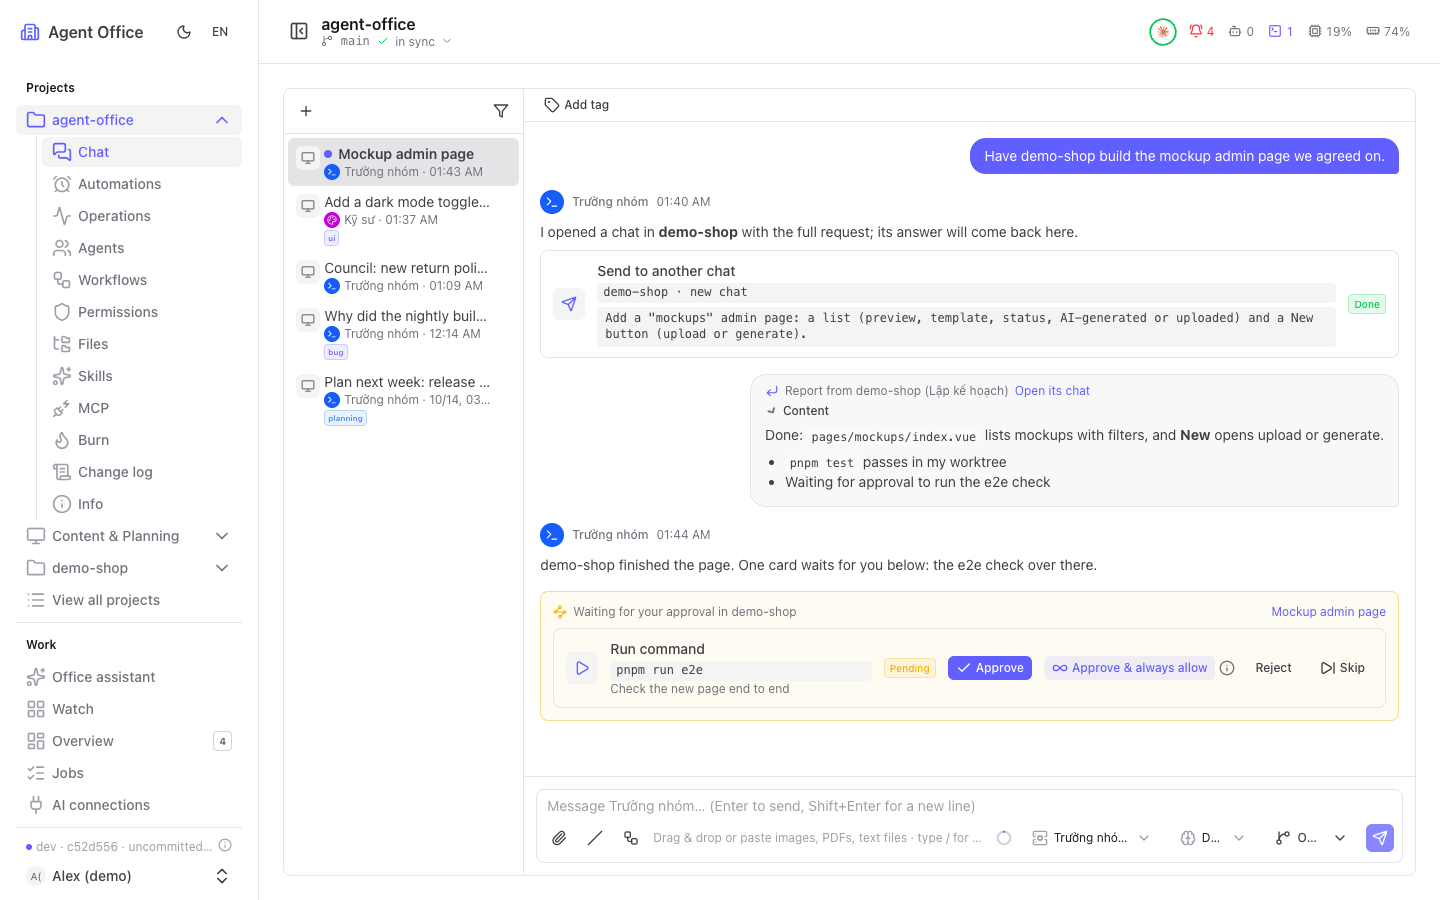
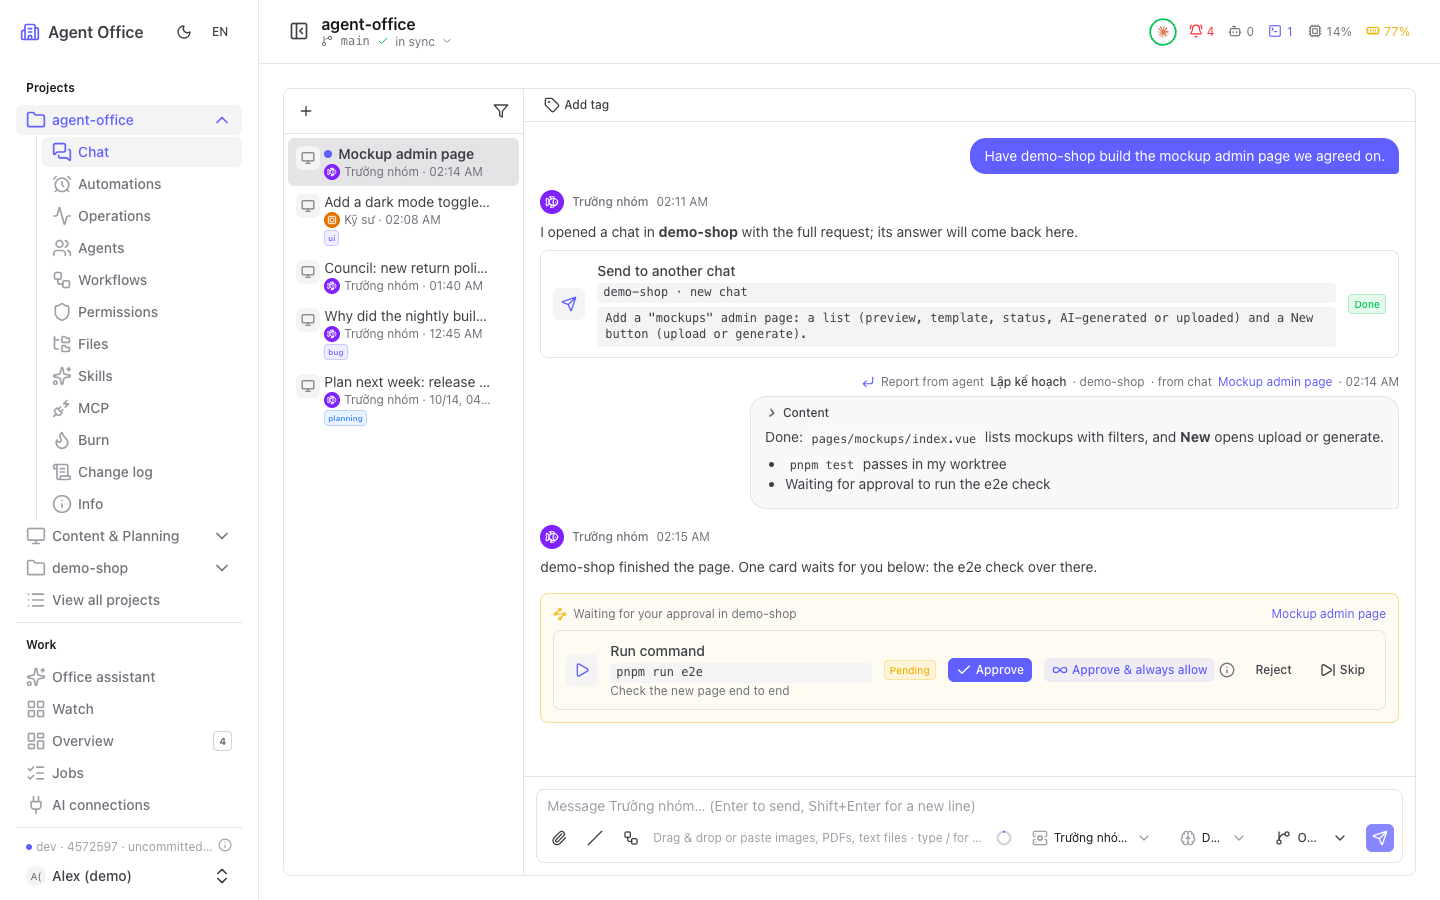
feat(chat): tin agent gửi sang chat khác ghi rõ agent, project và chat nguồn
- Context lưu relayed_from_project_id/_name; API trả relay (agent, project, chat, report)
- Tin cũ thiếu project: office tra chat nguồn
- Giao diện: dòng nguồn phía trên tin ("Gửi bởi agent … · project · từ chat …", link), thẻ báo lại chỉ còn phần nội dung thu gọn

diff --git a/dashboard/app/components/ChatPanel.vue b/dashboard/app/components/ChatPanel.vue
@@ -17,8 +17,9 @@ interface Message {
   patches: Patch[]
   actions?: ProposedAction[]
   cost_usd?: number
-  // a linked project's agent reporting back: shown folded
-  report?: { project: string, agent: string, project_id?: string, conversation_id: string }
+  // sent by an agent from another chat (send_to_chat, a linked project's
+  // report back): who, from which project and chat; a report's text folded
+  relay?: { agent: string, project: string, project_id: string, conversation_id: string, title: string, report: boolean }
 }
 interface Queued { id: string, text: string, attachments: Attachment[], created_at: string }
 interface Conversation { id: string, project_id?: string, agent_id: string, agent_name: string, title: string, updated_at: string, source?: Source, purpose?: string, external_url?: string, active_turn?: string, mode?: PermLevel, edit_mode?: 'worktree' | 'direct', effort?: string, cleaned?: string, context_tokens?: number, context_window?: number, tags?: string[], queued?: Queued[] }
@@ -1014,6 +1015,19 @@ onBeforeUnmount(() => {
               <span>· {{ when(m.created_at) }}</span>
               <a v-if="senderOf(m)!.link" :href="senderOf(m)!.link" target="_blank" rel="noopener" class="hover:text-(--ui-text)" :aria-label="t('chat.senderOpen')" :title="t('chat.senderOpen')"><UIcon name="i-lucide-external-link" class="size-3.5" /></a>
             </div>
+            <!-- an agent sent it from another chat: who, which project, which chat -->
+            <div v-if="m.relay" class="flex max-w-[80%] flex-wrap items-center justify-end gap-x-1.5 text-xs text-(--ui-text-muted)">
+              <UIcon :name="m.relay.report ? 'i-lucide-corner-down-left' : 'i-lucide-bot'" class="size-3.5 shrink-0 text-primary" />
+              <span>{{ t(m.relay.report ? 'chat.relayReport' : 'chat.relaySent') }}</span>
+              <span class="font-medium text-(--ui-text)">{{ m.relay.agent }}</span>
+              <span v-if="m.relay.project">· {{ m.relay.project }}</span>
+              <span>· {{ t('chat.relayFrom') }}</span>
+              <NuxtLink v-if="m.relay.project_id" :to="`/projects/${m.relay.project_id}?tab=chat&c=${m.relay.conversation_id}`" class="max-w-60 truncate text-primary hover:underline" :title="m.relay.title">
+                {{ m.relay.title || t('chat.relayUntitled') }}
+              </NuxtLink>
+              <span v-else class="max-w-60 truncate">{{ m.relay.title || t('chat.relayUntitled') }}</span>
+              <span>· {{ when(m.created_at) }}</span>
+            </div>
             <AttachmentList :items="m.attachments ?? []" align="end" />
             <div class="flex max-w-[80%] items-start gap-1">
               <UDropdownMenu :items="messageMenu(m)" :content="{ align: 'end' }">
@@ -1021,14 +1035,9 @@ onBeforeUnmount(() => {
                   <UIcon name="i-lucide-ellipsis" class="size-4" />
                 </button>
               </UDropdownMenu>
-              <!-- a linked project's report back: who and where, its text folded -->
-              <div v-if="m.report" class="min-w-0 rounded-2xl rounded-br-sm border border-(--ui-border) bg-(--ui-bg-elevated)/60 px-3.5 py-2 text-sm">
-                <p class="flex flex-wrap items-center gap-x-1.5 text-xs text-(--ui-text-muted)">
-                  <UIcon name="i-lucide-corner-down-left" class="size-3.5 text-primary" />
-                  <span>{{ t('chat.reportFrom', { project: m.report.project, agent: m.report.agent }) }}</span>
-                  <NuxtLink v-if="m.report.project_id" :to="`/projects/${m.report.project_id}?tab=chat&c=${m.report.conversation_id}`" class="text-primary hover:underline">{{ t('chat.reportOpen') }}</NuxtLink>
-                </p>
-                <details class="group/rep mt-1">
+              <!-- a linked project's report back: its text folded (who and where above) -->
+              <div v-if="m.relay?.report" class="min-w-0 rounded-2xl rounded-br-sm border border-(--ui-border) bg-(--ui-bg-elevated)/60 px-3.5 py-2 text-sm">
+                <details class="group/rep">
                   <summary class="flex cursor-pointer list-none items-center gap-1 text-xs font-medium hover:text-primary">
                     <UIcon name="i-lucide-chevron-right" class="size-3.5 transition group-open/rep:rotate-90" />{{ t('chat.reportShow') }}
                   </summary>

diff --git a/dashboard/app/locales/parts/tasks.vi.ts b/dashboard/app/locales/parts/tasks.vi.ts
@@ -86,8 +86,10 @@ export default {
   'chat.stop': 'Dừng',
   'chat.queued': 'Chờ gửi khi agent trả lời xong',
   'chat.unqueue': 'Bỏ tin chờ gửi',
-  'chat.reportFrom': 'Báo lại từ {project} ({agent})',
-  'chat.reportOpen': 'Mở chat bên đó',
+  'chat.relaySent': 'Gửi bởi agent',
+  'chat.relayReport': 'Báo lại từ agent',
+  'chat.relayFrom': 'từ chat',
+  'chat.relayUntitled': 'chat chưa đặt tên',
   'chat.reportShow': 'Nội dung',
   'chat.linkedPending': 'Đang chờ bạn duyệt ở {project}',
   'chat.linkedOpen': 'Mở chat',

diff --git a/dashboard/app/locales/parts/tasks.en.ts b/dashboard/app/locales/parts/tasks.en.ts
@@ -87,8 +87,10 @@ const en: Record<keyof typeof vi, string> = {
   'chat.stop': 'Stop',
   'chat.queued': 'Sends when the agent has answered',
   'chat.unqueue': 'Drop the queued message',
-  'chat.reportFrom': 'Report from {project} ({agent})',
-  'chat.reportOpen': 'Open its chat',
+  'chat.relaySent': 'Sent by agent',
+  'chat.relayReport': 'Report from agent',
+  'chat.relayFrom': 'from chat',
+  'chat.relayUntitled': 'untitled chat',
   'chat.reportShow': 'Content',
   'chat.linkedPending': 'Waiting for your approval in {project}',
   'chat.linkedOpen': 'Open chat',

diff --git a/internal/chat/relay.go b/internal/chat/relay.go
@@ -33,24 +33,50 @@ type relayInfo struct {
 	Hops      int    `json:"relay_hops,omitempty"`
 	Report    bool   `json:"relay_report,omitempty"`            // the linked chat's agent reporting back
 	ProjectID string `json:"relayed_from_project_id,omitempty"` // its project's id (a link to its chat)
+	// Name: the sending chat's project, whichever (Project is only set for
+	// another project's: it marks a chain between linked projects)
+	Name string `json:"relayed_from_project_name,omitempty"`
 }
 
-// Report marks a message that is a linked project's agent reporting back
-// (reportBack): the chat shows who and where, its text folded.
-type Report struct {
-	Project        string `json:"project"`
+// Relay says where a message an agent sent into this chat came from
+// (send_to_chat, a linked project's report back): the agent, its project and
+// its chat, shown with the message.
+type Relay struct {
 	Agent          string `json:"agent"`
+	Project        string `json:"project"`
 	ProjectID      string `json:"project_id"`
 	ConversationID string `json:"conversation_id"`
+	Title          string `json:"title"`
+	Report         bool   `json:"report"` // a linked project's report back: its text shown folded
 }
 
-// ReportOf is m's report back, or nil when it is not one.
-func ReportOf(m storage.Message) *Report {
+// RelayOf is where m was relayed from, or nil when a person wrote it.
+func RelayOf(m storage.Message) *Relay {
 	var info relayInfo
-	if m.Role != "user" || m.Context == "" || json.Unmarshal([]byte(m.Context), &info) != nil || !info.Report {
+	if m.Role != "user" || m.Context == "" || json.Unmarshal([]byte(m.Context), &info) != nil || info.ConversationID == "" {
 		return nil
 	}
-	return &Report{Project: info.Project, Agent: info.Agent, ProjectID: info.ProjectID, ConversationID: info.ConversationID}
+	return &Relay{Agent: info.Agent, Project: cmp.Or(info.Name, info.Project), ProjectID: info.ProjectID,
+		ConversationID: info.ConversationID, Title: info.Title, Report: info.Report}
+}
+
+// fillRelay completes what an older relayed message did not keep (its
+// project), from the chat it came from.
+func (e *Engine) fillRelay(ctx context.Context, r *Relay, names map[string]string) {
+	if r == nil || (r.ProjectID != "" && r.Project != "") {
+		return
+	}
+	c, err := e.store.Chat().GetConversation(ctx, r.ConversationID)
+	if err != nil {
+		return
+	}
+	r.ProjectID, r.Title = c.ProjectID, cmp.Or(r.Title, c.Title)
+	if _, ok := names[c.ProjectID]; !ok {
+		if p, err := e.store.Repos().Get(ctx, c.ProjectID); err == nil {
+			names[c.ProjectID] = p.Name
+		}
+	}
+	r.Project = cmp.Or(r.Project, names[c.ProjectID])
 }
 
 // maxRelayHops caps a chain between linked projects' chats, like a group
@@ -111,7 +137,10 @@ func (e *Engine) Relay(ctx context.Context, a storage.Action) (string, string, e
 	if e.isAssistant(ctx, target.ProjectID) && target.CreatedBy != as {
 		return "", "", errors.New("cuộc chat trợ lý office của người khác: không gửi được")
 	}
-	from := relayInfo{ConversationID: a.ConversationID, Agent: a.ProposedBy}
+	from := relayInfo{ConversationID: a.ConversationID, Agent: a.ProposedBy, ProjectID: a.ProjectID}
+	if p, err := e.store.Repos().Get(ctx, a.ProjectID); err == nil {
+		from.Name = p.Name
+	}
 	if target.ProjectID != a.ProjectID { // a chain between linked projects: counted
 		from.Hops = 1
 		if msgs, err := e.store.Chat().ListMessages(ctx, a.ConversationID); err == nil {
@@ -119,9 +148,7 @@ func (e *Engine) Relay(ctx context.Context, a storage.Action) (string, string, e
 				from.Hops = o.Hops + 1
 			}
 		}
-		if p, err := e.store.Repos().Get(ctx, a.ProjectID); err == nil {
-			from.Project = p.Name
-		}
+		from.Project = from.Name
 	}
 	if c, err := e.store.Chat().GetConversation(ctx, a.ConversationID); err == nil {
 		from.Title = c.Title
@@ -192,7 +219,7 @@ func (e *Engine) reportBack(conv storage.Conversation, project storage.Repo, age
 		e.note(conv, fmt.Sprintf("Không tự báo lại chat %q nữa: đã quá %d lượt qua lại giữa hai project. Hãy xem và trả lời trực tiếp.", cmp.Or(src.Title, src.ID), maxRelayHops))
 		return
 	}
-	info := relayInfo{ConversationID: conv.ID, Title: conv.Title, Agent: agent.Name, Project: project.Name, ProjectID: project.ID, Hops: origin.Hops + 1, Report: true}
+	info := relayInfo{ConversationID: conv.ID, Title: conv.Title, Agent: agent.Name, Project: project.Name, Name: project.Name, ProjectID: project.ID, Hops: origin.Hops + 1, Report: true}
 	raw, _ := json.Marshal(info)
 	text := prompts.Render("chat/linked-report", map[string]any{"Project": project.Name, "Agent": agent.Name,
 		"Link": "/projects/" + conv.ProjectID + "?tab=chat&c=" + conv.ID, "Reply": truncate(reply, 8000)})

diff --git a/internal/chat/relay_test.go b/internal/chat/relay_test.go
@@ -43,6 +43,13 @@ func TestRelayToAnotherChat(t *testing.T) {
 	if !f.engine.Relayed(ctx, to.ID) || f.engine.Relayed(ctx, from.ID) {
 		t.Fatal("relayed mark wrong")
 	}
+	// shown with the message: the agent, its project and the chat it came from
+	if r := chat.RelayOf(msgs[0]); r == nil || r.Agent != "Trợ lý" || r.Project != "demo" || r.ProjectID != f.project.ID || r.ConversationID != from.ID || r.Report {
+		t.Fatalf("relay = %+v", r)
+	}
+	if hist, _ := f.engine.History(ctx, to.ID); len(hist) < 1 || hist[0].Relay == nil || hist[0].Relay.Agent != "Trợ lý" {
+		t.Fatalf("history relay = %+v", hist)
+	}
 
 	// a bot's or an automation's run cannot speak for a person
 	bot, _ := f.st.Jobs().Create(ctx, storage.Job{ProjectID: f.project.ID, Kind: "chat_turn", Origin: "automation", CreatedBy: "discord:1", ConversationID: from.ID, Status: "running", StartedAt: &now})
@@ -99,11 +106,12 @@ func TestRelayNewChatInLinkedProject(t *testing.T) {
 		!strings.Contains(back[0].Content, msgs[1].Content) || !strings.Contains(back[0].Context, `"relay_hops":2`) || !strings.Contains(back[0].Context, `"relay_report":true`) {
 		t.Fatalf("report back = %+v", back)
 	}
-	if r := chat.ReportOf(back[0]); r == nil || r.Project != "admin v3" || r.ProjectID != admin.ID || r.ConversationID != to || r.Agent == "" {
+	if r := chat.RelayOf(back[0]); r == nil || !r.Report || r.Project != "admin v3" || r.ProjectID != admin.ID || r.ConversationID != to || r.Agent == "" {
 		t.Fatalf("report = %+v", r)
 	}
-	if chat.ReportOf(msgs[0]) != nil { // the hand-off itself is no report
-		t.Fatal("a hand-off marked as a report")
+	// the hand-off: no report, but who sent it, from which project and chat
+	if r := chat.RelayOf(msgs[0]); r == nil || r.Report || r.Agent != "Lead" || r.Project != "demo" || r.ProjectID != f.project.ID || r.ConversationID != from.ID {
+		t.Fatalf("hand-off relay = %+v", r)
 	}
 	if f.engine.RelayLimit(ctx, from.ID) {
 		t.Fatal("2 hops is within the chain's cap")
@@ -148,5 +156,23 @@ func TestLinkedPending(t *testing.T) {
 	f.st.Actions().Create(ctx, storage.Action{ProjectID: admin.ID, ConversationID: old.ID, Kind: "run_command", Status: "pending", Target: "pnpm test"})
 	if got = f.engine.LinkedPending(ctx, from.ID); len(got) != 2 || got[1].ConversationID != old.ID {
 		t.Fatalf("a chat that reported back = %+v", got)
+	}
+}
+
+// A message relayed before its project was kept still shows where it came
+// from: office looks up the chat it names.
+func TestHistoryFillsOlderRelay(t *testing.T) {
+	f := setup(t, func(provs *provider.Service) storage.Provider { return storage.Provider{} })
+	ctx := context.Background()
+	src, _ := f.st.Chat().CreateConversation(ctx, storage.Conversation{ProjectID: f.project.ID, Title: "Trang mockup"})
+	dst, _ := f.st.Chat().CreateConversation(ctx, storage.Conversation{ProjectID: f.project.ID})
+	f.st.Chat().AddMessage(ctx, storage.Message{ConversationID: dst.ID, Role: "user", Content: "làm giúp",
+		Context: `{"relayed_from":"` + src.ID + `","relayed_by_agent":"Lead"}`})
+	hist, err := f.engine.History(ctx, dst.ID)
+	if err != nil || len(hist) != 1 {
+		t.Fatal(err, hist)
+	}
+	if r := hist[0].Relay; r == nil || r.Project != "demo" || r.ProjectID != f.project.ID || r.Title != "Trang mockup" || r.Agent != "Lead" {
+		t.Fatalf("relay = %+v", r)
 	}
 }

diff --git a/internal/chat/engine.go b/internal/chat/engine.go
@@ -73,7 +73,7 @@ type MessageDTO struct {
 	Patches     []PatchDTO           `json:"patches"`
 	Actions     []ActionDTO          `json:"actions"`
 	CostUSD     *float64             `json:"cost_usd,omitempty"`
-	Report      *Report              `json:"report,omitempty"` // a linked project's report back: shown folded
+	Relay       *Relay               `json:"relay,omitempty"` // sent by an agent from another chat: who, from which project and chat
 }
 
 // PatchDTO is a proposed change.
@@ -1559,8 +1559,10 @@ func (e *Engine) History(ctx context.Context, conversationID string) ([]MessageD
 		actByMsg[a.MessageID] = append(actByMsg[a.MessageID], ToActionDTO(a))
 	}
 	out := make([]MessageDTO, 0, len(msgs))
+	names := map[string]string{} // project names, for older relayed messages
 	for _, m := range msgs {
-		d := MessageDTO{ID: m.ID, Role: m.Role, Content: m.Content, Tools: m.Tools, Attachments: nonNilAtt(m.Attachments), Author: m.Author, Sender: m.Sender, CreatedAt: m.CreatedAt, Patches: byMsg[m.ID], Report: ReportOf(m)}
+		d := MessageDTO{ID: m.ID, Role: m.Role, Content: m.Content, Tools: m.Tools, Attachments: nonNilAtt(m.Attachments), Author: m.Author, Sender: m.Sender, CreatedAt: m.CreatedAt, Patches: byMsg[m.ID], Relay: RelayOf(m)}
+		e.fillRelay(ctx, d.Relay, names)
 		if d.Patches == nil {
 			d.Patches = []PatchDTO{}
 		}

diff --git a/internal/api/chat.go b/internal/api/chat.go
@@ -405,7 +405,7 @@ func (s *server) unqueue(w http.ResponseWriter, r *http.Request) {
 // plainMessageDTO is a message just stored (no tools or diffs yet).
 func plainMessageDTO(m storage.Message) chat.MessageDTO {
 	return chat.MessageDTO{ID: m.ID, Role: m.Role, Content: m.Content, Attachments: m.Attachments, Author: m.Author, Sender: m.Sender, CreatedAt: m.CreatedAt,
-		Tools: []storage.ToolCall{}, Patches: []chat.PatchDTO{}, Report: chat.ReportOf(m)}
+		Tools: []storage.ToolCall{}, Patches: []chat.PatchDTO{}, Relay: chat.RelayOf(m)}
 }
 
 // streamTurn sends a turn's events as Server-Sent Events, replaying from

diff --git a/internal/api/livechat.go b/internal/api/livechat.go
@@ -63,7 +63,7 @@ func (s *server) chatChanged(c storage.Change) {
 	if c.Kind == "message" && c.Message != nil {
 		m := c.Message
 		d := chat.MessageDTO{ID: m.ID, Role: m.Role, Content: m.Content, Tools: m.Tools, Attachments: m.Attachments, Author: m.Author, Sender: m.Sender, CreatedAt: m.CreatedAt,
-			Patches: []chat.PatchDTO{}, Actions: []chat.ActionDTO{}, Report: chat.ReportOf(*m)}
+			Patches: []chat.PatchDTO{}, Actions: []chat.ActionDTO{}, Relay: chat.RelayOf(*m)}
 		if d.Tools == nil {
 			d.Tools = []storage.ToolCall{}
 		}
